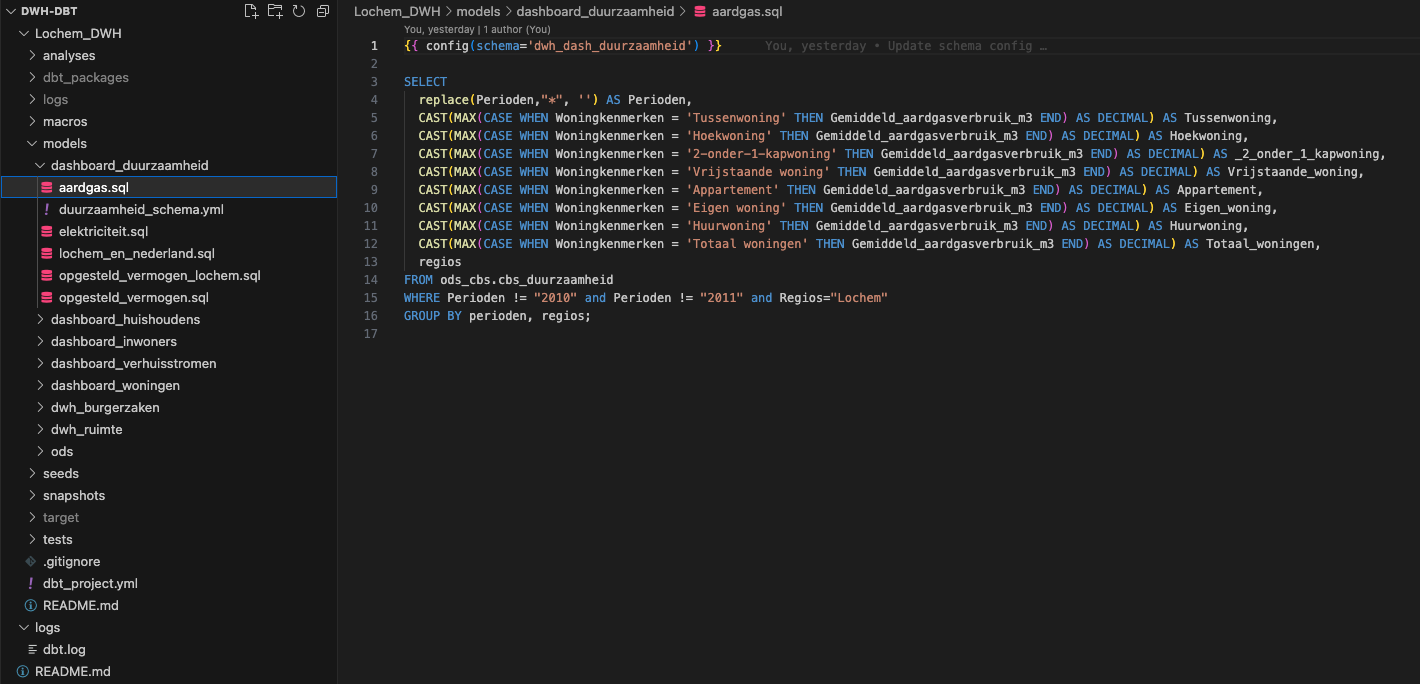
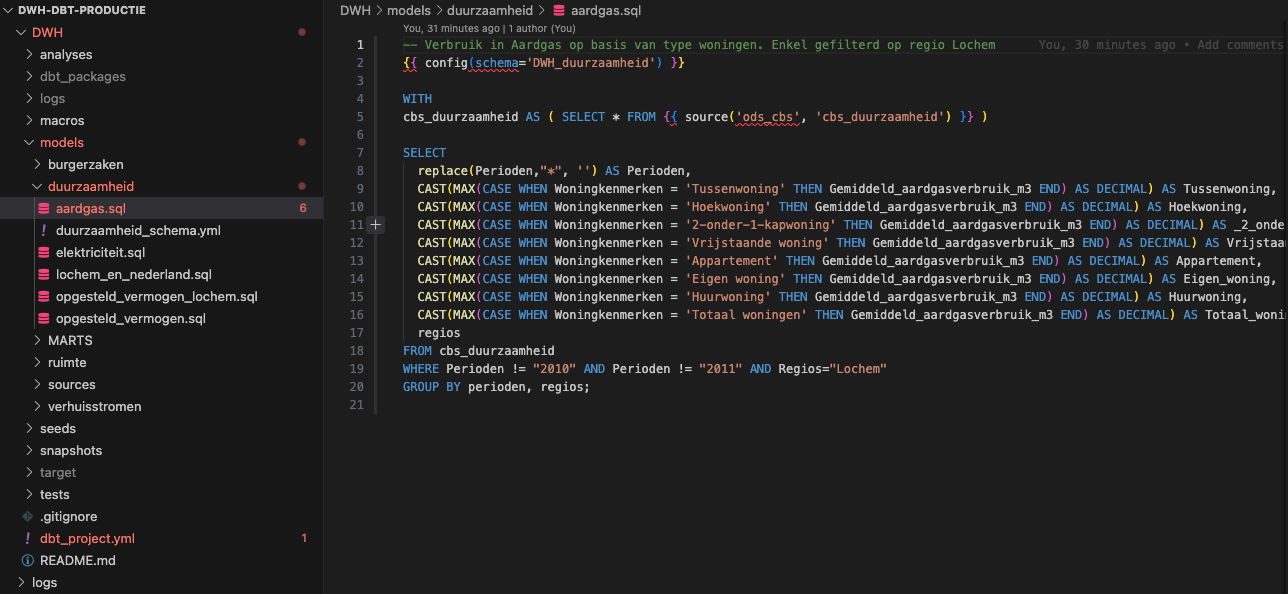
Update docs 2024

Changed region(s): [[0.0, 0.0, 1.0, 1.0], [0.8075, 0.0606, 0.9006, 0.0909], [0.9317, 0.0606, 0.9938, 0.0909]]

diff --git a/docs/README.md b/docs/README.md
@@ -105,64 +105,48 @@ Zie hieronder een preview van hoe een dashboard eruit ziet in Databricks (*Dashb
 
 ## DBT
 
-### Models en Views
+### Models en DataMarts
 Voor nu bestaan er **7** schemas: **dwh_burgerzaken** en **dwh_ruimte**. En in totaal **22** models:
 - **dwh_burgerzaken**
     - bevolkingsgroei
-    - huishouden
-    - huishoudtypes
-    - inwoners
+    - bevolkingsopbouw
+    - brp
+    - geslachtsopbouw
+- **dwh_duurzaamheid**
+    - aardgas
+    - elektriciteit
+    - lochem_nederland
+    - opgesteld_vermogen_lochem
+    - opgesteld_vermogen
 - **dwh_ruimte**
     - bag_num_recent
     - verblijfsobjecten
     - woningen_lochem
     - woningtypes_huishoudtypes
     - woz
-
-> (Alle views die direct worden gebruikt in de dashboards *dash*)
-- **dwh_dash_duurzaamheid**
-    - aardgas
-    - elektriciteit
-    - lochem_en_nederland
-    - opgesteld_vermogen
-    - opgesteld_vermogen_lochem
-- **dwh_dash_huishoudens**
-    - huishoudtypes_per_woonplaats
-    - woningtype_en_huishoudtype
-- **dwh_dash_inwoners**
-    - aantal_inwoners
-    - aantal_woningen
-    - bevolkingsgroei_lochem
-    - bevolkingsgroei_per_jaar
-    - bevolkingsgroei_per_maand
-    - bevolkingsopbouw_brp
-    - bevolkingsopbouw_leeftijd_geslacht
-    - gemiddelde_leeftijd
-    - thuiswonende_jongeren
-    - totaal_inwoners_brp
-- **dwh_dash_verhuisstromen**
-    - gevestigd_2021
-    - gevestigd_2022
-    - verhuisd_2021
-    - verhuisd_2022
+- **dwh_verhuisstromen**
+    - gevestigd
     - verhuizingen
-- **dwh_dash_woningen**
-    - bouwtrend_5jaren
-    - oppervlakte
-    - woning_types
-    - woningen_per_woonplaats
-    - woningen_totaal
-    - woz_waarde
-    - woz_waarde_distributie
+    - vertrokken
+
+> Aantal Datamarts
+
+- **MARTS**
+    - huishouden
+    - huishoudtypes_per_woonplaats
+    - huishoudtypes
+    - woningen_lochem
+    - woningtypes_en_huishoudtypes
+
 
 ### Databricks connector
-Alle DBT models staan in de GIT Repository *DWH-DBT* en vervolgens onder *models*.
-Het is ook mogelijk om ipv DBT, direct in Databricks SQL querys (ipv. views) klaar te zetten voor Dashboards.
+Alle DBT models staan in de GIT Repository *DWH-DBT-PRODUCTIE* en vervolgens onder *models*.
+De repository *DWH-DBT* met de bijbehorende Databricks workspace *Lochem_Lakehouse*, zijn gebruikt destijds voor development.
+Het is ook mogelijk om ipv DBT, direct in Databricks SQL querys (ipv. views) klaar te zetten voor Dashboards uiteraard.
 
 <img src="assets/images/folder_structure_DBT_repo.png" width="90%" height="90%" style="margin:0px 115px"/>
 
-Om veranderingen aan te brengen in de views of om bijvoorbeeld nieuwe views of schemas te creëren, dien je de GIT repository
-lokaal te clonen om te kunnen bewerken. Daarnaast is het noodzakelijk om DBT-core te hebben en de connectie met Databricks te hebben (Databricks connector).
+Om veranderingen aan te brengen in de views of om bijvoorbeeld nieuwe views of schemas te creëren, dien je de lokaal aanpassingen door te voeren in de *main* branch van de GIT repository **DWH-DBT-PRODUCTIE**. Daarnaast is het noodzakelijk om DBT-core te hebben en de connectie met Databricks te hebben (Databricks connector).
 
 **Opzetten van DBT Core:** </br>
 Maak een virtual environment:
@@ -183,7 +167,7 @@ Zorg ervoor dat je in je lokale User root folder een .dbt folder hebt aangemaakt
 profiles.yml
 
 Met als volgende er in:
-- Lochem_DWH:
+- DWH:
   - target: dev
   - outputs:
     - dev:
@@ -191,7 +175,7 @@ Met als volgende er in:
       - catalog: hive_metastore
       - schema: dwh
       - host: ****
-      - http_path: /sql/1.0/warehouses/be7dfdd910e88b7d
+      - http_path: /sql/1.0/warehouses/1e0a32dc6d62a9dc
       - token: **** 
       - threads: 1  
 
